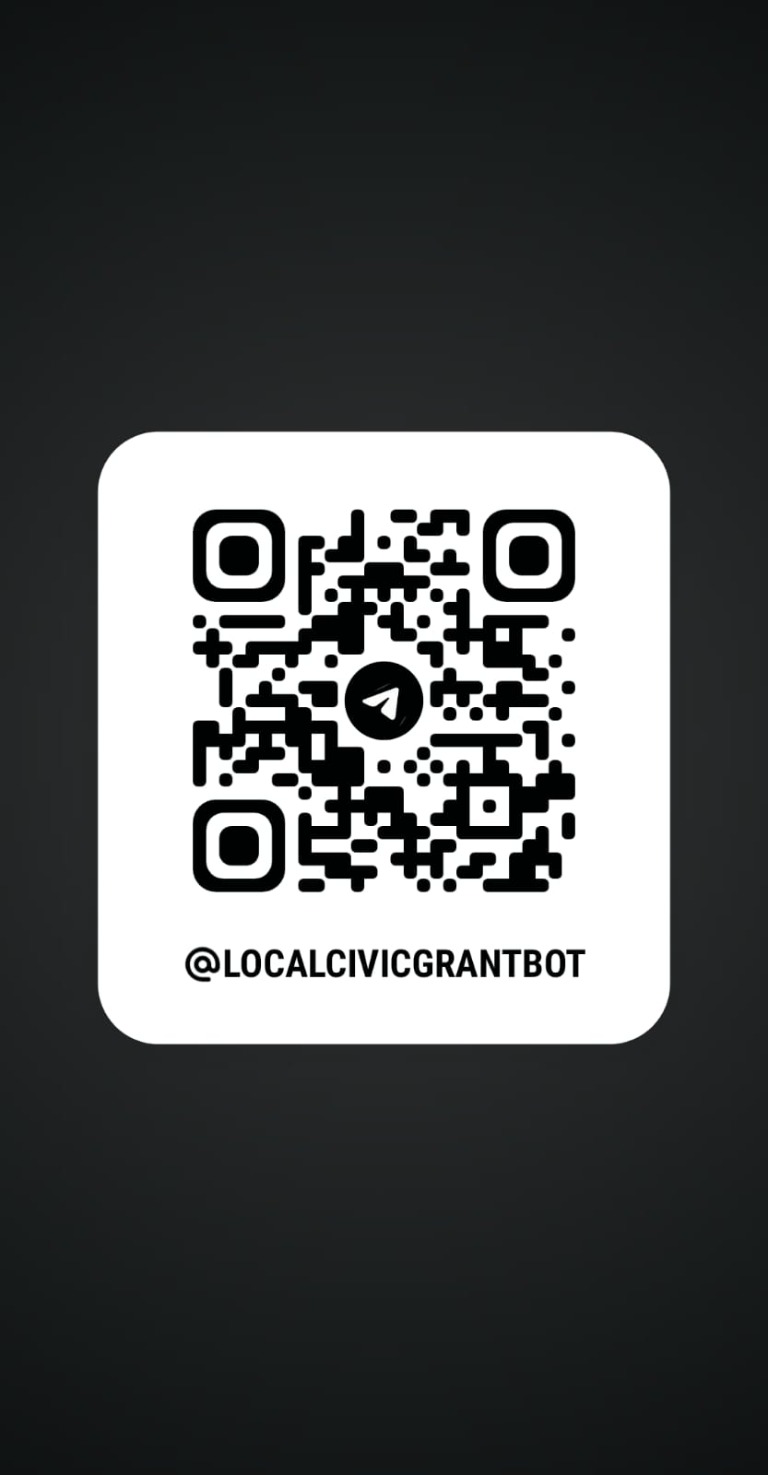
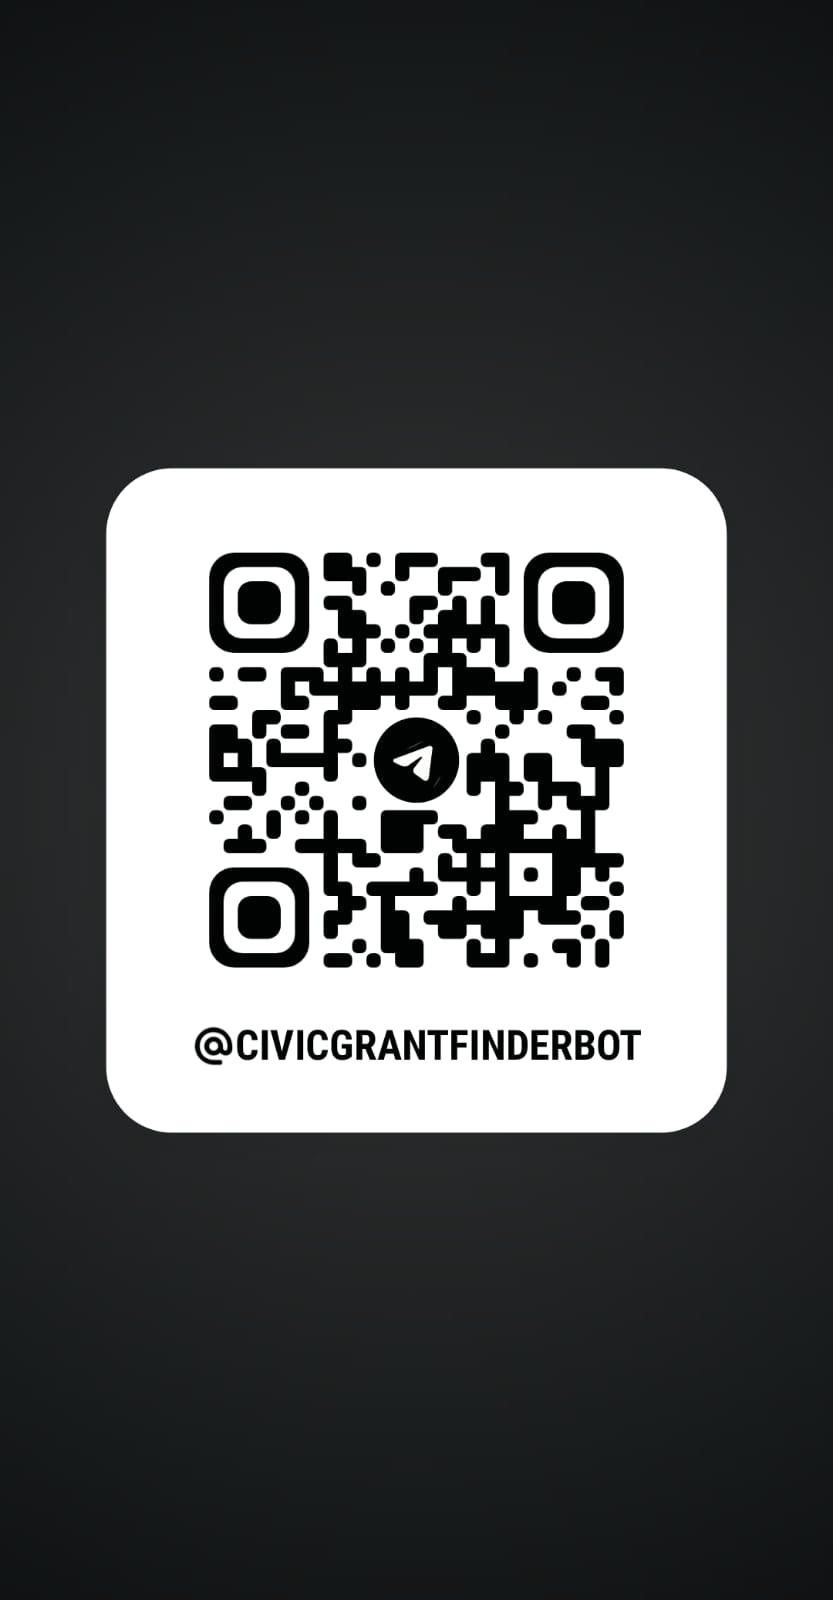
Point site to @CIVICGRANTFINDERBOT and log Telegram polling errors
- Update Telegram bot link, QR code and handle on the site and README
- Log getUpdates/deleteWebhook/send failures instead of swallowing them

Changed region(s): [[0.2188, 0.3431, 0.7812, 0.6861]]

diff --git a/src/pages/Demo.tsx b/src/pages/Demo.tsx
@@ -32,11 +32,11 @@ export default function Demo() {
             <img
               className={styles.qrImage}
               src="/civictext-telegram-qr.png"
-              alt="QR code for opening @LOCALCIVICGRANTBOT on Telegram"
+              alt="QR code for opening @CIVICGRANTFINDERBOT on Telegram"
             />
             <figcaption className={styles.qrCaption}>
               <strong>Scan to open the bot</strong>
-              <span>Find us on Telegram at @LOCALCIVICGRANTBOT</span>
+              <span>Find us on Telegram at @CIVICGRANTFINDERBOT</span>
               <a className={styles.qrLink} href={botUrl} target="_blank" rel="noopener noreferrer">
                 Or open the bot on Telegram <span aria-hidden="true">&rarr;</span>
               </a>

diff --git a/src/lib/platform.ts b/src/lib/platform.ts
@@ -1,5 +1,5 @@
 export function getTelegramBotUrl(): string {
-  return 'https://t.me/LOCALCIVICGRANTBOT';
+  return 'https://t.me/CIVICGRANTFINDERBOT';
 }
 
 export const backendUrl =

diff --git a/backend/main.py b/backend/main.py
@@ -54,12 +54,19 @@ async def _poll_telegram():
     token = os.environ.get("TELEGRAM_TOKEN", "").strip()
 
     # 1. Delete the webhook so Telegram allows Long Polling
-    await run_in_threadpool(
-        requests.get,
-        f"https://api.telegram.org/bot{token}/deleteWebhook",
-        timeout=10
-    )
-    print("✅ Webhook deleted. Switched to Long Polling mode! Listening for messages...")
+    try:
+        res = await run_in_threadpool(
+            requests.get,
+            f"https://api.telegram.org/bot{token}/deleteWebhook",
+            timeout=10
+        )
+    except Exception:
+        log.exception("deleteWebhook failed (cannot reach Telegram?)")
+    else:
+        if res.ok:
+            print("✅ Webhook deleted. Switched to Long Polling mode! Listening for messages...")
+        else:
+            log.error("deleteWebhook rejected: %s %s", res.status_code, res.text[:200])
 
     offset = 0
     while True:
@@ -97,9 +104,15 @@ async def _poll_telegram():
                             await sub.put(dashboard_update)
 
                         # Process via AI
+                        log.warning("Telegram message from %s: %r", chat_id, user_text[:80])
                         await run_in_threadpool(handle_message, chat_id, user_text)
+            else:
+                # e.g. 401 = bad/revoked token, 409 = another process is polling this bot
+                log.error("getUpdates failed: %s %s", res.status_code, res.text[:200])
+        except asyncio.CancelledError:
+            raise
         except Exception:
-            pass # Ignore temporary network blips
+            log.exception("Telegram polling error")
 
         await asyncio.sleep(1)
 

diff --git a/README.md b/README.md
@@ -13,7 +13,7 @@ cp .env.example .env
 npm run dev
 ```
 
-The website runs at `http://localhost:5173`. Telegram links point to [@CivicS123_bot](https://t.me/CivicS123_bot). `VITE_BACKEND_URL` defaults to `http://127.0.0.1:8000` for the local request monitor. Restart Vite after changing configuration.
+The website runs at `http://localhost:5173`. Telegram links point to [@CIVICGRANTFINDERBOT](https://t.me/CIVICGRANTFINDERBOT). `VITE_BACKEND_URL` defaults to `http://127.0.0.1:8000` for the local request monitor. Restart Vite after changing configuration.
 
 Run the backend separately using [backend/README.md](backend/README.md). Backend secrets belong in `backend/.env`.
 
@@ -87,7 +87,7 @@ The root [vercel.json](./vercel.json) configures Vercel as a multi-service
 project: the Vite app is served by the `app` service, `/api/*` requests are
 forwarded to the FastAPI `backend` service, and all other paths go to the app.
 Configure the backend's `TELEGRAM_TOKEN` and LLM settings as Vercel environment
-variables. Website Telegram links point to [@CivicS123_bot](https://t.me/CivicS123_bot).
+variables. Website Telegram links point to [@CIVICGRANTFINDERBOT](https://t.me/CIVICGRANTFINDERBOT).
 
 The Grants page uses bundled sample listings and does not require a hosted
 database or backend connection.
